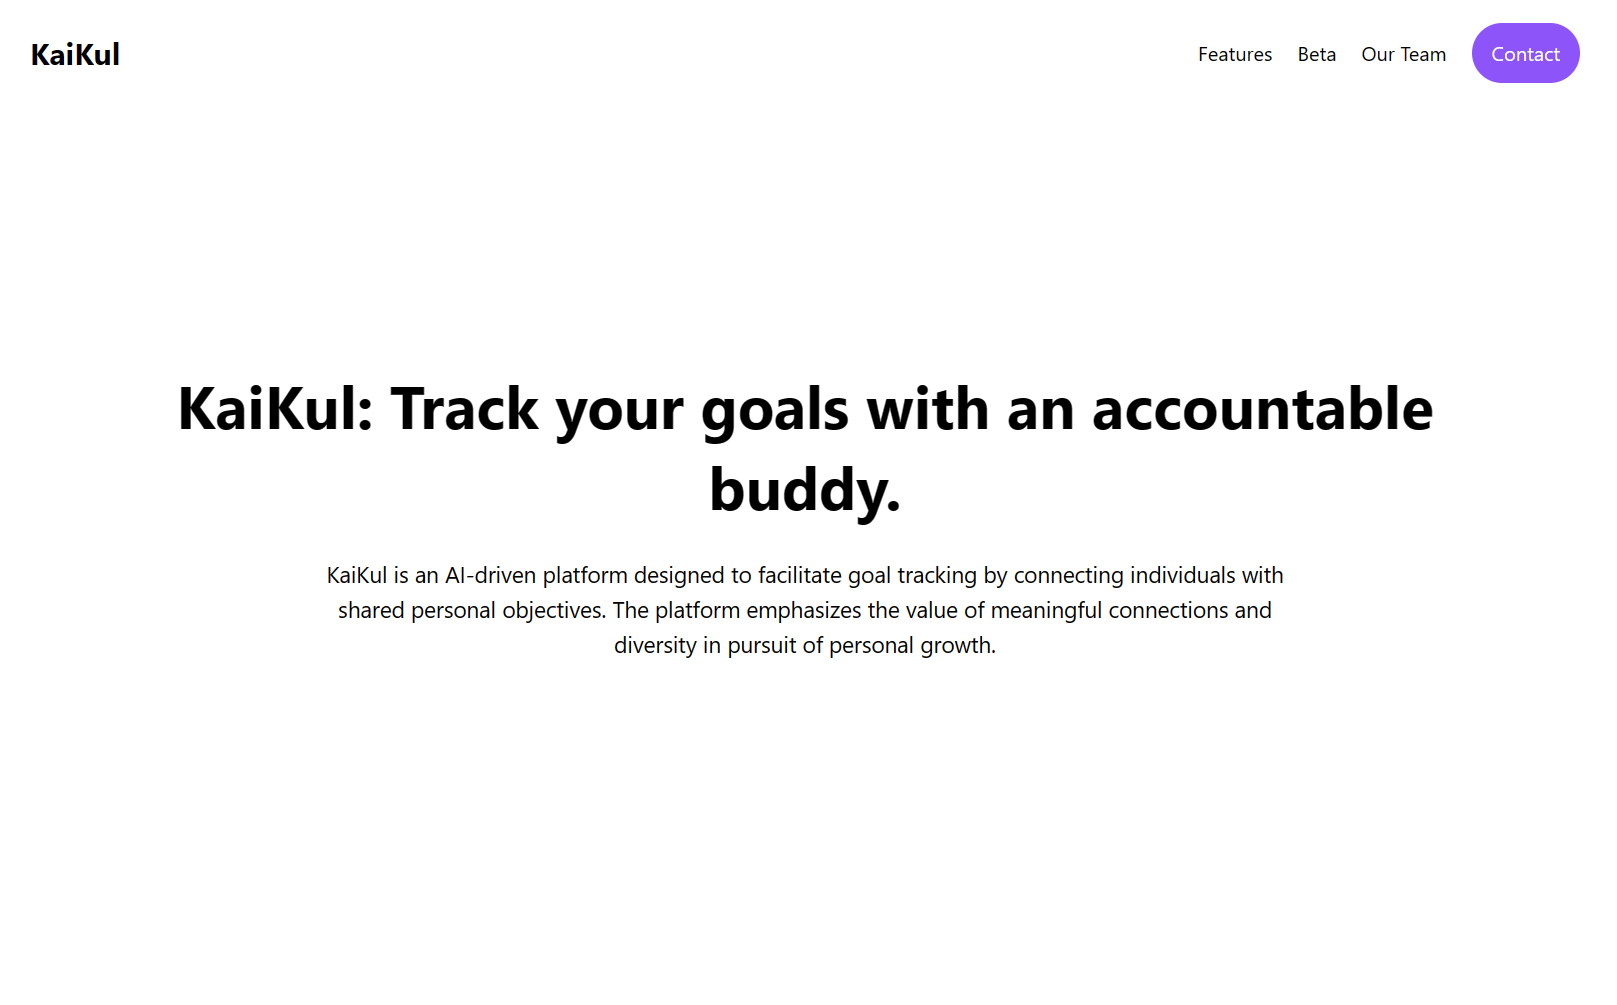
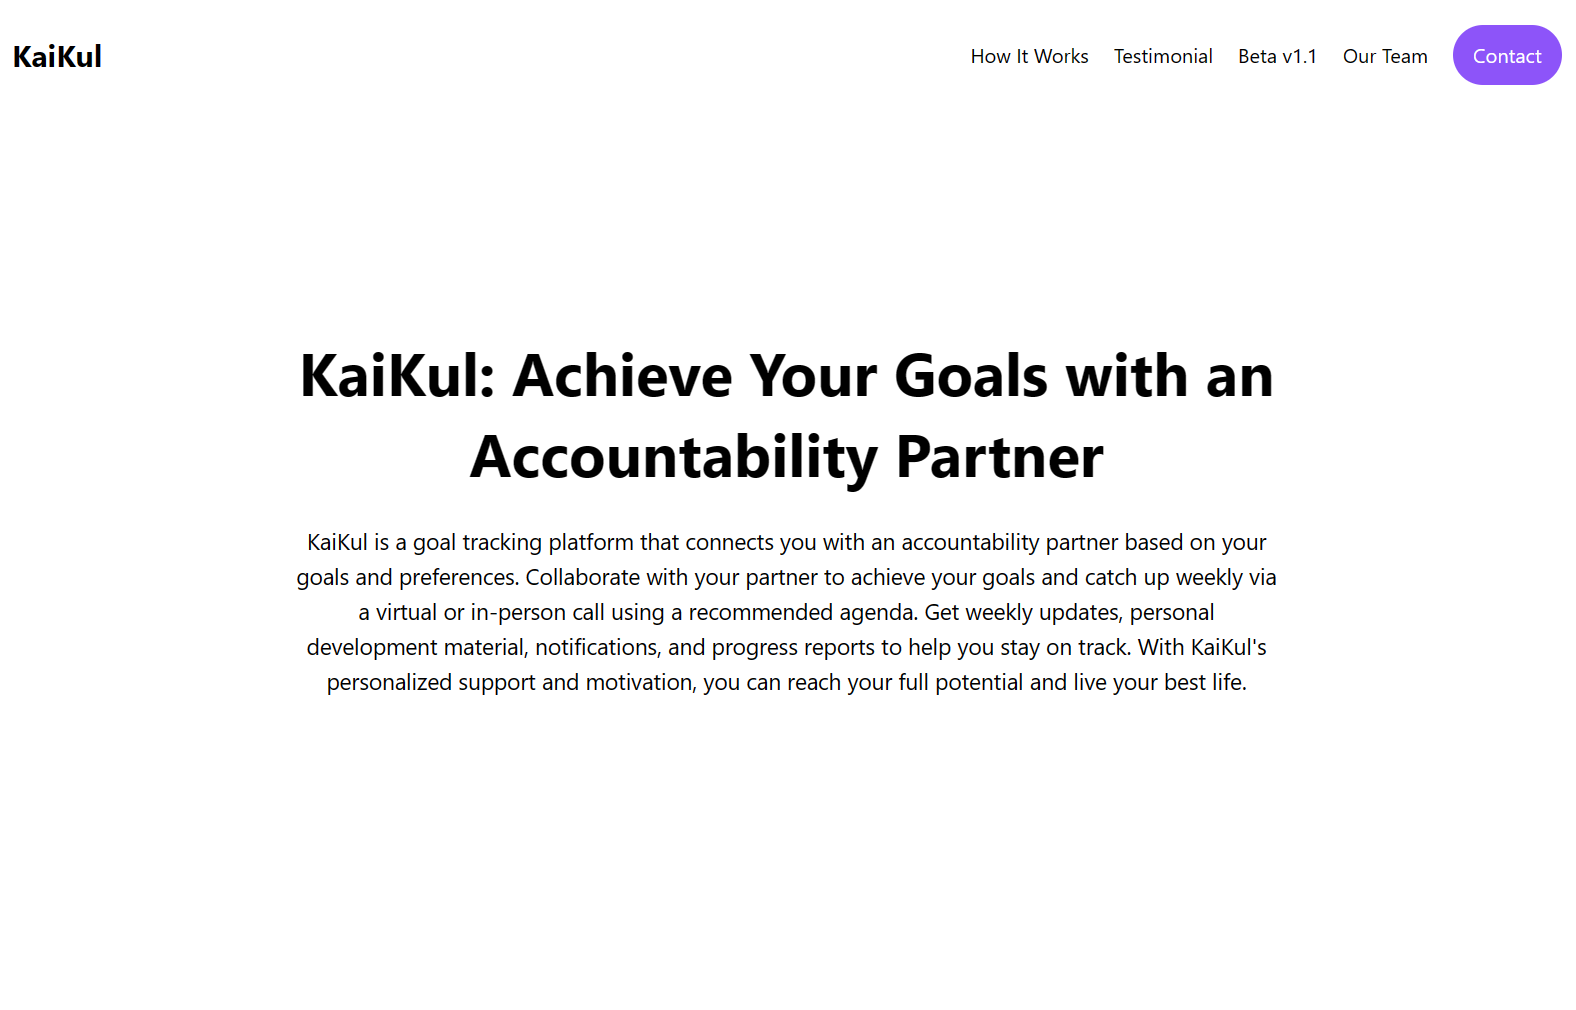
title

Changed region(s): [[0.0933, 0.3393, 0.9016, 0.7095], [0.6218, 0.0, 0.9949, 0.0925], [0.0, 0.0308, 0.0933, 0.0925]]

diff --git a/src/pages/index.tsx b/src/pages/index.tsx
@@ -54,10 +54,12 @@ export default function Home() {
   return (
     <div className="min-h-screen z-0">
       <Head>
-        <title>KaiKul | Track your goals with an accountable buddy</title>
+        <title>
+          KaiKul | Achieve Your Goals with an Accountability Partner
+        </title>
         <meta
           property="og:title"
-          content="KaiKul: Track your goals with an accountable buddy"
+          content="KaiKul: Achieve Your Goals with an Accountability Partner"
         />
         <meta property="og:image" content="/img/kaikul-thumbnail.png" />
         <link rel="icon" href="/favicon.ico" />
